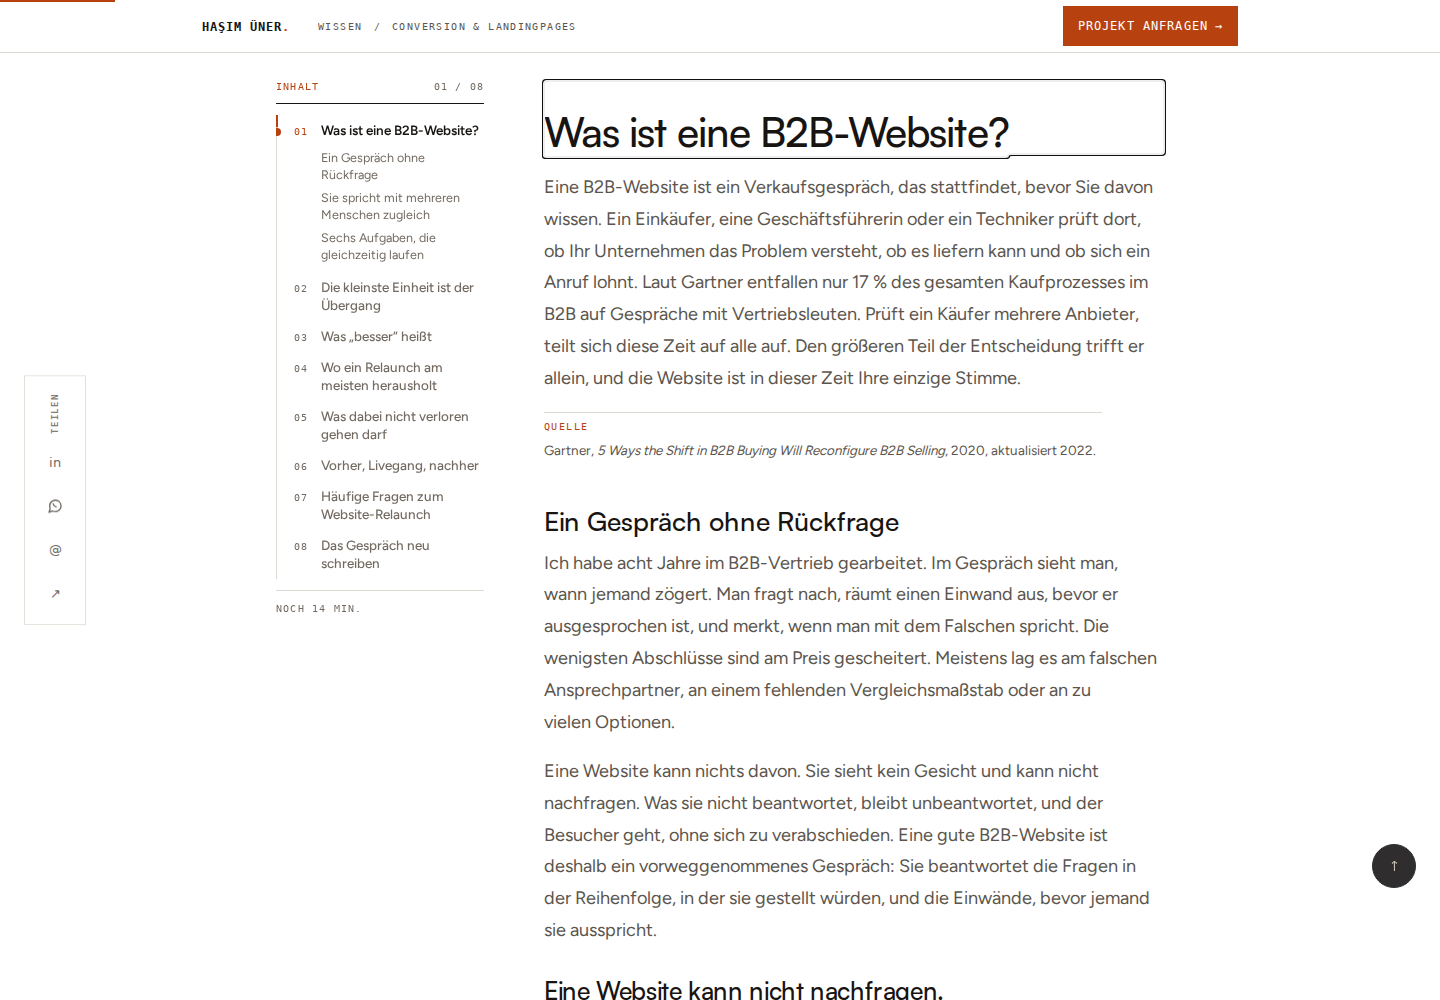
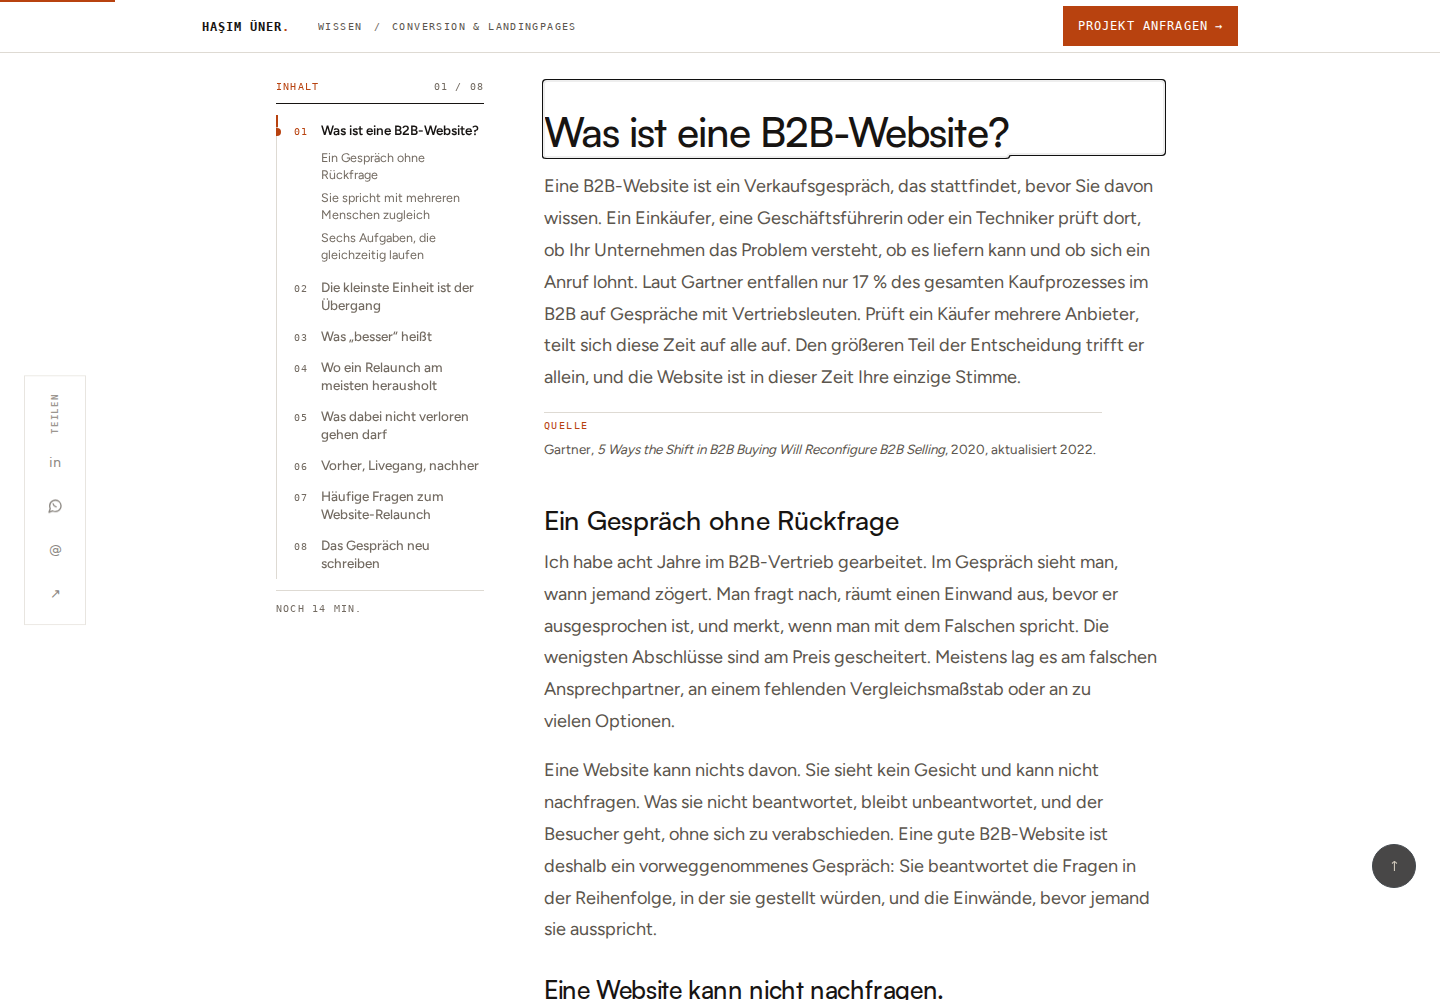
Keep shared article hero width at the new type scale

diff --git a/blocksy-child/assets/css/article-reader-body.css b/blocksy-child/assets/css/article-reader-body.css
@@ -141,7 +141,7 @@
 }
 
 .nexus-article-reader-header ~ .nexus-single-container .nexus-title {
-	max-inline-size: 16ch;
+	max-inline-size: 20ch;
 	margin: 0;
 	font-family: var(--serif-display);
 	font-size: clamp(2.8rem, 2rem + 4vw, 5rem);

diff --git a/docs/briefings/blog-reader/README.md b/docs/briefings/blog-reader/README.md
@@ -1,4 +1,4 @@
-# BD-READER@2026-11-01-v1 · Wartung und Relaunch
+# BD-READER@2026-11-01-v2 · Wartung und Relaunch
 
 Die beiden neuesten fachlich passenden Referenzartikel behalten ihre Inhalte,
 eigenen Bilder, Rechner, Abbildungen, Prüflisten und Anfrageziele. Der gemeinsame
@@ -52,6 +52,12 @@ Bild-Fixture ist nur ein Testwert. Keine Newsletter-/Kontaktanfrage abgesendet.
 Die statische Lesbarkeit ohne JS ist geprüft; der allgemeine TOC wird weiterhin
 per JS aufgebaut und ist ohne JS nicht als Navigation verfügbar.
 
+Revision 2: Die erste CI fand beim bestehenden technischen SEO-Fachartikel
+eine zu schmale Desktop-Titelspalte: Mit kleinerer H1 schrumpfte auch die
+16ch-Begrenzung. Der gemeinsame Hero nutzt jetzt bis 20ch innerhalb seiner
+vorhandenen 1100-px-Fläche. Die bestehende Layoutprüfung bleibt unverändert;
+Wartung/Relaunch Desktop und die betroffene SEO-Ansicht wurden erneut geprüft.
+
 Frontend-Guides: `modern-web-guidance` **accessibility** (Focus/Tab-Reihenfolge)
 und **responsive-table** (semantische Tabellen, mobile Beziehungen erhalten).
 Bestehende mobile Tabellenvarianten bleiben inhaltlich unverändert.
@@ -61,6 +67,7 @@ Bestehende mobile Tabellenvarianten bleiben inhaltlich unverändert.
 | Wartung | Relaunch |
 | --- | --- |
 | ![Wartung Hero, mobil](wartung-390-hero.png) | ![Relaunch Hero, mobil](relaunch-390-hero.png) |
+| ![Wartung Hero, Desktop](wartung-1440-hero.png) | ![Relaunch Hero, Desktop](relaunch-1440-hero.png) |
 | ![Wartung Reader, mobil](wartung-390.png) | ![Relaunch Reader, mobil](relaunch-390.png) |
 | ![Wartung Reader, Desktop](wartung-1440.png) | ![Relaunch Reader, Desktop](relaunch-1440.png) |
 

diff --git a/docs/architecture/LIVE_STATUS.md b/docs/architecture/LIVE_STATUS.md
@@ -775,7 +775,7 @@ Projektabschluss und ruhiger Agentur-Zweitweg, zentrale Metadaten und
   Buttons, FAQ und Autor verwenden lesbare Kontraste. Die Agentic-Coding-Route,
   gemeinsame Reader-Dateien, URL, Anfrageziele und Schema bleiben unverändert.
   Repo-Stand; Produktionsverifikation erfolgt nach Veröffentlichung.
-- **Reader-Paket BD-READER@2026-11-01-v1**: gemeinsame H1 bis 80 px,
+- **Reader-Paket BD-READER@2026-11-01-v2**: gemeinsame H1 bis 80 px,
   mobil 36–42 px, mobiler Fließtext 18 px. Kategorie bleibt im Lesepfad
   und als Kicker, ohne zweites Kategorie-Badge in der Metazeile. Cover nutzt
   sein natürliches Seitenverhältnis und `sizes` passend zur maximal 1100 px
